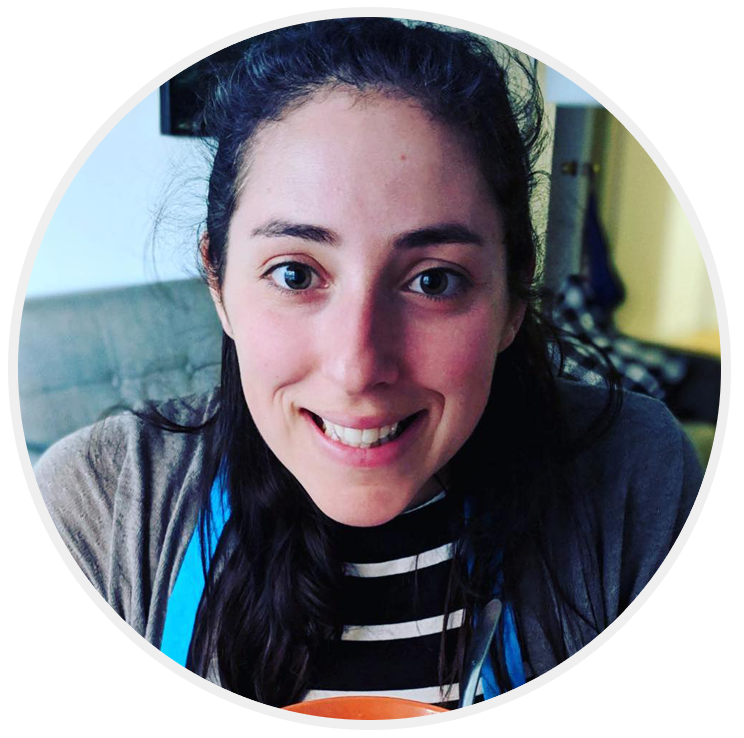
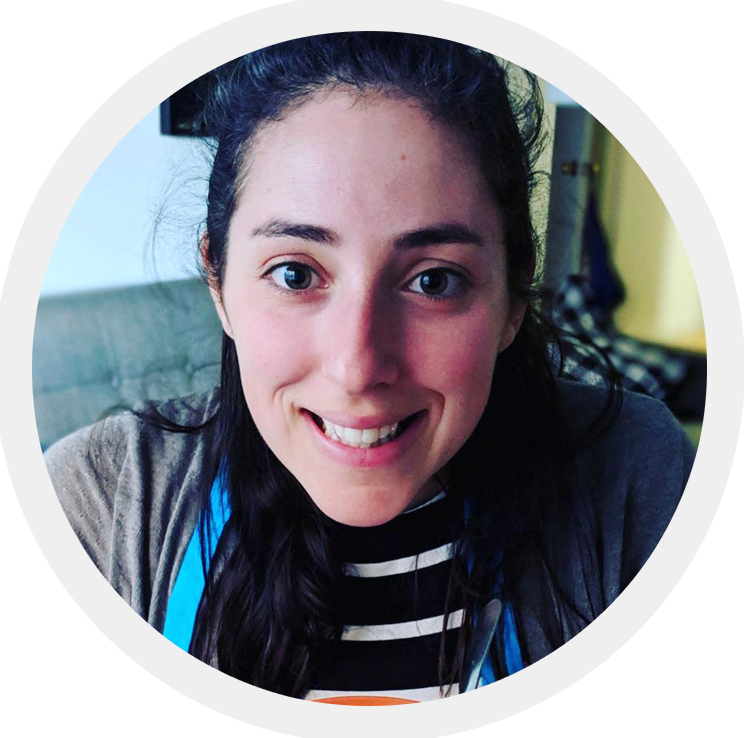
add about section

Changed region(s): [[0.0, 0.0, 0.9892, 0.9973]]

diff --git a/src/pages/index.js b/src/pages/index.js
@@ -28,10 +28,18 @@ export const query = graphql`
 
 export default ({ data }) => (
   <Layout>
-    <div style={{ width: "160px", display: "inline-block" }}>
-      <h1>About Me</h1>
-      <img src={christina} alt="Christina Profile Photo" width="80px" />
-      <p>I like to cook</p>
+    <div style={{ width: "260px" }}>
+      <h1 style={{ "text-align": "center", "font-size": "24px" }}>About Me</h1>
+      <img
+        src={christina}
+        alt="Christina Profile Photo"
+        width="100px"
+        style={{ margin: "15px auto 10px", display: "block" }}
+      />
+      <p style={{ padding: "0 10px" }}>
+        Hello! My name is Christina and I like to cook. combine my two passions
+        cooking and history! I will give you some helpful links to recipes.
+      </p>
     </div>
     <div style={{ display: "flex", "flex-direction": "column" }}>
       {data.posts.nodes.map(post => (

diff --git a/src/components/layout.js b/src/components/layout.js
@@ -25,7 +25,7 @@ const GlobalStyle = createGlobalStyle`
 
 const Main = styled.div`
   display: flex;
-  max-width: 800px;
+  max-width: 900px;
   width: 100%;
   margin: 0 auto;
 `

diff --git a/README.md b/README.md
@@ -12,6 +12,7 @@ First project using GatsbyJS and Contenful CMS.
 - SEO optimization
 - Search blog posts
 - Pagination
+- Comment Section
 
 ![version1](https://raw.githubusercontent.com/JKaram/foodstorian/master/static/images/readme_v1.PNG)
 
